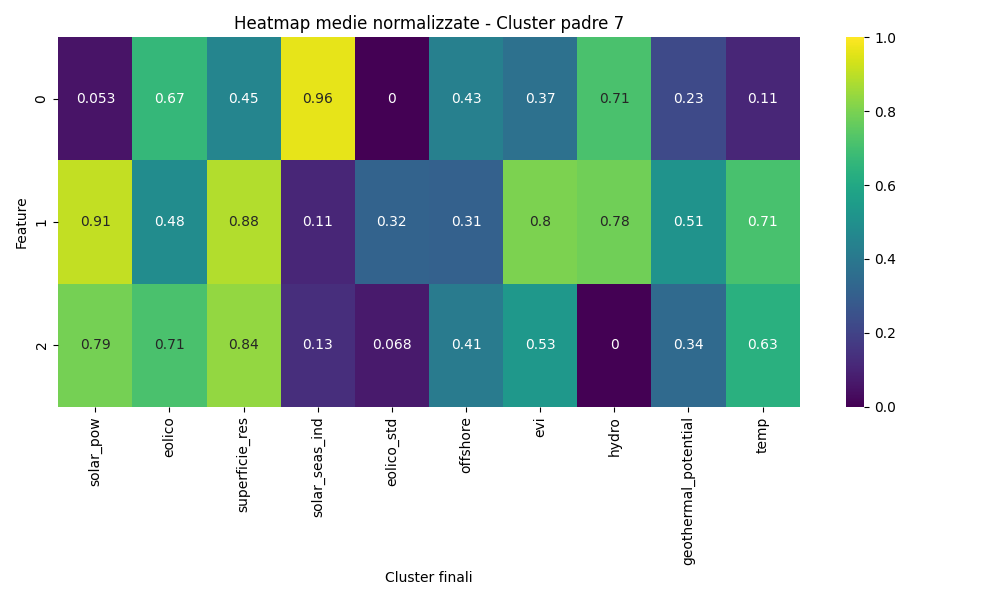
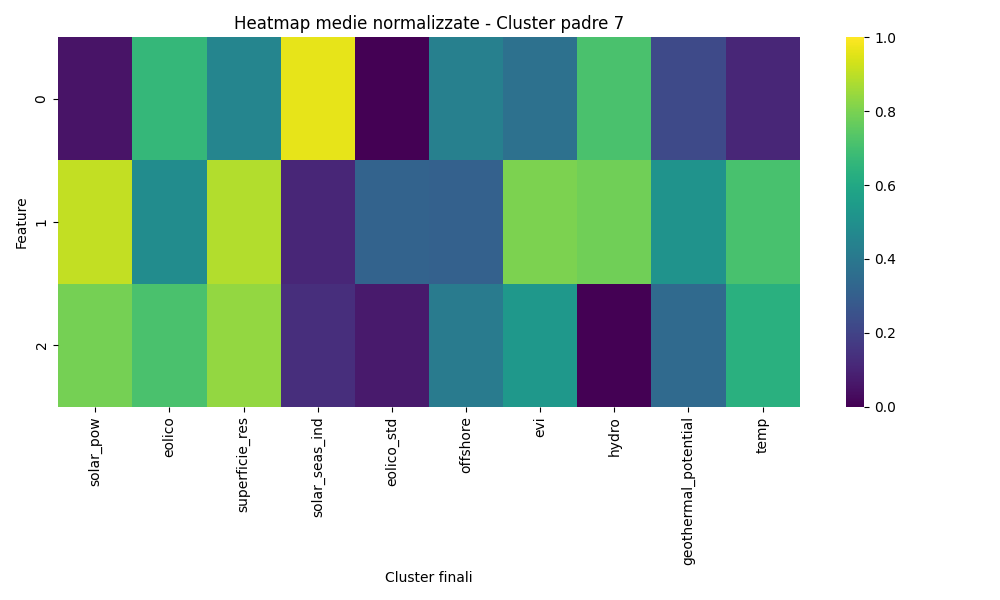
aggiunta heatmap

diff --git a/clustering/pipeline_finale/second_step/5-heatmap.py b/clustering/pipeline_finale/second_step/5-heatmap.py
@@ -23,7 +23,7 @@ cluster_means_norm = cluster_means.apply(
 )
 #plot della heatmap
 plt.figure(figsize=(10, 6))
-sns.heatmap(cluster_means_norm, cmap="viridis", annot=True, cbar=True)
+sns.heatmap(cluster_means_norm, cmap="viridis", cbar=True)
 plt.title("Heatmap delle medie per cluster (normalizzate per feature)")
 plt.ylabel("Feature")
 plt.xlabel("Cluster")
@@ -48,7 +48,7 @@ for cl in range(n_clust_first):
     subset = means_norm[means_norm['cluster'] == cl]
     subset = subset.set_index('cluster_finali')[colonne1]
     plt.figure(figsize=(10, 6))
-    sns.heatmap(subset, annot=True, vmin=0, vmax=1, cmap="viridis", cbar=True)
+    sns.heatmap(subset, vmin=0, vmax=1, cmap="viridis", cbar=True)
     plt.title(f"Heatmap medie normalizzate - Cluster padre {cl}")
     plt.ylabel("Feature")
     plt.xlabel("Cluster finali")
@@ -110,7 +110,6 @@ ax_heat = plt.subplot(gs[1])
 sns.heatmap(
     ordered_norm,
     cmap="viridis",
-    annot = True,
     cbar=True,
     ax=ax_heat,
     yticklabels=[f"{i[0]}.{i[1]}" for i in ordered.index]
